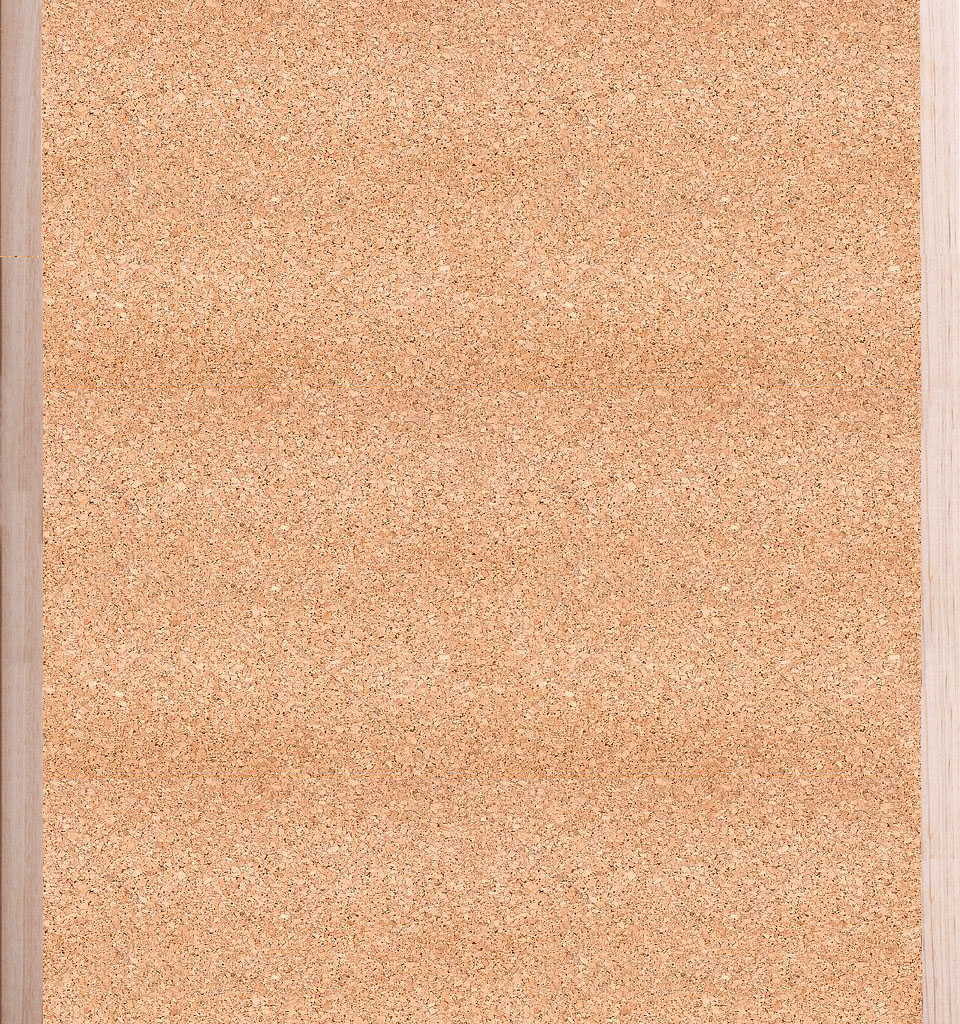
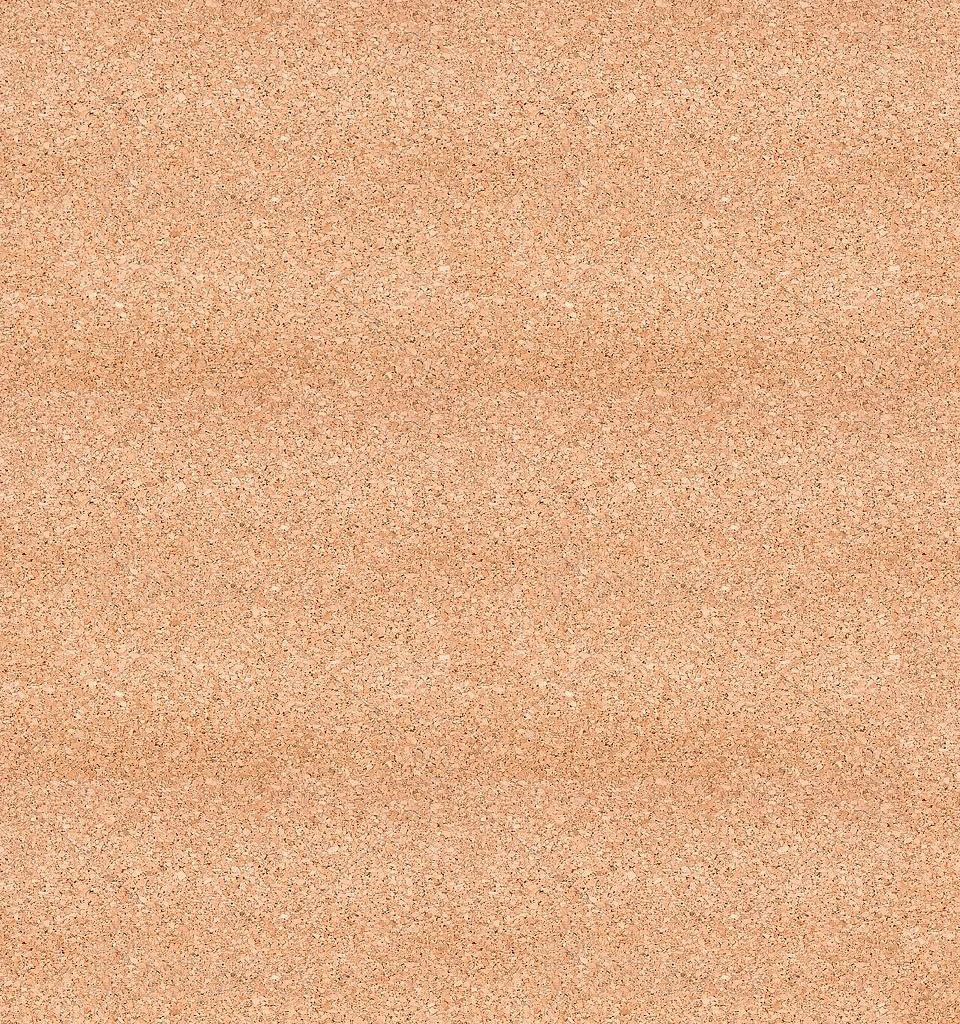
a

Changed region(s): [[0.9375, 0.0, 1.0, 1.0], [0.0, 0.0, 0.0625, 1.0]]

diff --git a/submit.html b/submit.html
@@ -1,0 +1,53 @@
+<!DOCTYPE html>
+<html>
+<head>
+  <meta charset="utf-8">
+  <link type="text/css" rel="stylesheet" href="submit.css">
+  <link href='http://fonts.googleapis.com/css?family=Roboto' rel='stylesheet' type='text/css'>
+  <title>表單</title>
+</head>
+<body class="container_12">
+	<header class="grid_12">
+		<img alt="Arick" class="main-pic" itemprop="image" src="cover.jpg" >
+	</header>
+	<div class="arick-container grid_12">
+		<form action="https://docs.google.com/spreadsheet/formResponse?formkey=dDZ3dGNNLVFBTjR4bktTNGhQVEFfa3c6MA&amp;ifq" method="POST">
+			<input type="hidden" name="entry.0.single" value="101703026"><br>
+			
+			<h2>Gender</h2>
+			<input type="radio" name="entry.1.group" value="male">Male<br>
+			<input type="radio" name="entry.1.group" value="female">Female</br>
+
+			<h2>favorite foods</h2>
+			<input type="checkbox" name="entry.2.group" value="Apple">Apple<br>
+			<input type="checkbox" name="entry.2.group" value="Banana">Banana<br>
+			<input type="checkbox" name="entry.2.group" value="Lemon">Lemon<br>
+			<input type="checkbox" name="entry.2.group" value="Watermelon">Watermelon<br> 
+
+			<h2>Relationship</h2>
+			<div class="select">
+			<select name="entry.3.single">
+		　  <option value="single">single</option>
+		　  <option value="dating">dating</option>
+		　  <option value="married">married</option>
+		　  <option value="hard to explain">hard to explain</option>
+		　  </select>
+			</div>
+			<h2>Email</h2>
+		<div class="email">
+			<input type="text" name="entry.4.single" size="35"><br>
+		</div>
+			<h2>Comments</h2>
+		<div id="comments" class="grid_4 prefix_4 suffix_4 alpha">
+			<textarea name="entry.5.single" rows="7" cols="35" style="resize:none"></textarea><br>
+		</div>
+		<div class="submit">
+			<input type="submit" name="submit" value="提交">
+		</div>
+		</form>
+	</div>
+</body>
+<footer>
+	Copyright © 2014 Arick Web programing, All Rights Reserved.
+	</footer>
+</html>

diff --git a/表單.html b/表單.html
@@ -1,0 +1,53 @@
+<!DOCTYPE html>
+<html>
+<head>
+  <meta charset="utf-8">
+  <link type="text/css" rel="stylesheet" href="表單.css">
+  <link href='http://fonts.googleapis.com/css?family=Roboto' rel='stylesheet' type='text/css'>
+  <title>表單</title>
+</head>
+<body class="container_12">
+	<header class="grid_12">
+		<img alt="Arick" class="main-pic" itemprop="image" src="cover.jpg" >
+	</header>
+	<div class="arick-container grid_12">
+		<form action="https://docs.google.com/spreadsheet/formResponse?formkey=dDZ3dGNNLVFBTjR4bktTNGhQVEFfa3c6MA&amp;ifq" method="POST">
+			<input type="hidden" name="entry.0.single" value="101703026"><br>
+			
+			<h2>Gender</h2>
+			<input type="radio" name="entry.1.group" value="male">Male<br>
+			<input type="radio" name="entry.1.group" value="female">Female</br>
+
+			<h2>favorite foods</h2>
+			<input type="checkbox" name="entry.2.group" value="Apple">Apple<br>
+			<input type="checkbox" name="entry.2.group" value="Banana">Banana<br>
+			<input type="checkbox" name="entry.2.group" value="Lemon">Lemon<br>
+			<input type="checkbox" name="entry.2.group" value="Watermelon">Watermelon<br> 
+
+			<h2>Relationship</h2>
+			<div class="select">
+			<select name="entry.3.single">
+		　  <option value="single">single</option>
+		　  <option value="dating">dating</option>
+		　  <option value="married">married</option>
+		　  <option value="hard to explain">hard to explain</option>
+		　  </select>
+			</div>
+			<h2>Email</h2>
+		<div class="email">
+			<input type="text" name="entry.4.single" size="35"><br>
+		</div>
+			<h2>Comments</h2>
+		<div id="comments" class="grid_4 prefix_4 suffix_4 alpha">
+			<textarea name="entry.5.single" rows="7" cols="35" style="resize:none"></textarea><br>
+		</div>
+		<div class="submit">
+			<input type="submit" name="submit" value="提交">
+		</div>
+		</form>
+	</div>
+</body>
+<footer>
+	Copyright © 2014 Arick Web programing, All Rights Reserved.
+	</footer>
+</html>

diff --git a/自製表單.html b/自製表單.html
@@ -1,0 +1,35 @@
+<!DOCTYPE html>
+<html>
+<head>
+  <meta charset="utf-8">
+  <title>表單</title>
+</head>
+<body>
+<form action="https://docs.google.com/spreadsheet/formResponse?formkey=dDZ3dGNNLVFBTjR4bktTNGhQVEFfa3c6MA&amp;ifq" method="POST">
+
+	<input type="hidden" name="entry.0.single" value="101703026"><br>
+	Gender
+	<input type="radio" name="entry.1.group" value="male">Male<br>
+	<input type="radio" name="entry.1.group" value="female">Female</br>
+
+	favorite foods
+	<input type="checkbox" name="entry.2.group" value="Apple">Apple<br>
+	<input type="checkbox" name="entry.2.group" value="Banana">Banana<br>
+	<input type="checkbox" name="entry.2.group" value="Lemon">Lemon<br>
+	<input type="checkbox" name="entry.2.group" value="Watermelon">Watermelon<br> 
+
+	Relationship
+	<select name="entry.3.single">
+　  <option value="single">single</option>
+　  <option value="dating">dating</option>
+　  <option value="married">married</option>
+　  <option value="hard to explain">hard to explain</option>
+　  </select>
+	Email
+	<input type="text" name="entry.4.single"><br>
+	Comments
+	<textarea name="entry.5.single"></textarea><br>
+	<input type="submit" value="submit">
+</form>
+</body>
+</html>

diff --git a/submit.css b/submit.css
@@ -1,0 +1,41 @@
+@import url(http://cs.nccu.edu.tw/~jonesyu/960gs/code/css/reset.css);
+@import url(http://cs.nccu.edu.tw/~jonesyu/960gs/code/css/960.css);
+@import url(http://cs.nccu.edu.tw/~jonesyu/960gs/code/css/text.css);
+@import url(http://fonts.googleapis.com/css?family=Oswald);
+body{
+	background: url(skulls.png);
+	background-position: center center; 
+}
+img{
+	padding-left: 60px;	
+}
+h2{
+	font-family: 'Roboto', sans-serif;
+	padding-top:1em;
+	margin-bottom:10px;   
+	text-align:center;
+}
+input{
+	margin-left: 440px;
+	font-family: 'Roboto', sans-serif;
+}
+.email{
+	margin-left: -94px;
+}
+.submit{
+    margin-left:15px; 
+}
+.select{
+	text-align:center; 
+}
+.comments{
+	 resize: vertical; 
+}
+form{
+	margin-bottom:10em; 
+}
+footer{
+  text-align:center;
+  font-size:12px;
+  font-family: 微軟正黑體;
+}

diff --git a/表單.css b/表單.css
@@ -1,0 +1,41 @@
+@import url(http://cs.nccu.edu.tw/~jonesyu/960gs/code/css/reset.css);
+@import url(http://cs.nccu.edu.tw/~jonesyu/960gs/code/css/960.css);
+@import url(http://cs.nccu.edu.tw/~jonesyu/960gs/code/css/text.css);
+@import url(http://fonts.googleapis.com/css?family=Oswald);
+body{
+	background: url(skulls.png);
+	background-position: center center; 
+}
+img{
+	padding-left: 60px;	
+}
+h2{
+	font-family: 'Roboto', sans-serif;
+	padding-top:1em;
+	margin-bottom:10px;   
+	text-align:center;
+}
+input{
+	margin-left: 440px;
+	font-family: 'Roboto', sans-serif;
+}
+.email{
+	margin-left: -94px;
+}
+.submit{
+    margin-left:15px; 
+}
+.select{
+	text-align:center; 
+}
+.comments{
+	 resize: vertical; 
+}
+form{
+	margin-bottom:10em; 
+}
+footer{
+  text-align:center;
+  font-size:12px;
+  font-family: 微軟正黑體;
+}

diff --git a/101703026.css b/101703026.css
@@ -6,7 +6,7 @@ a{
   text-decoration:none;
 }
 body{
-  background:url(未命名-1.jpg);
+  background:url(background.jpg);
   background-position: center center;
   //background-repeat: repeat-y;
   width:960px;
